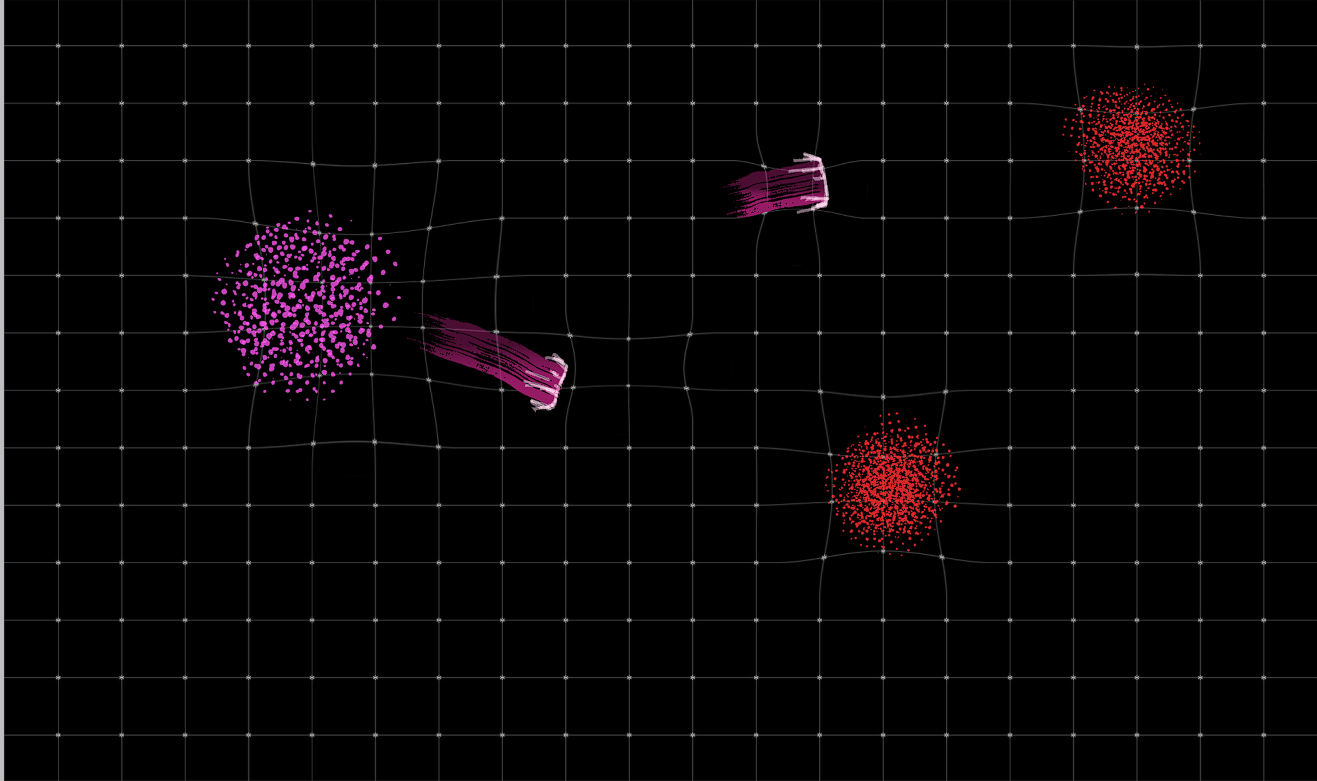
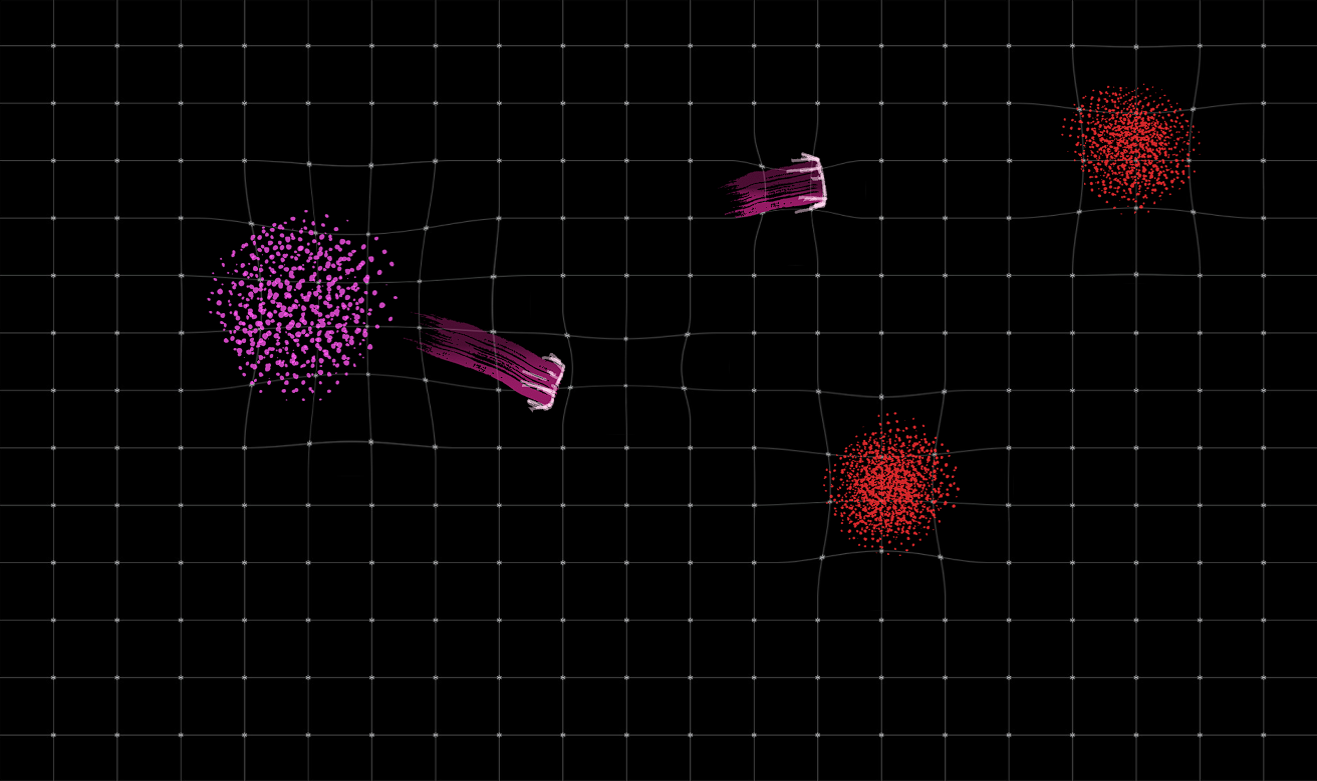
Start of Layout

diff --git a/style.css b/style.css
@@ -1,0 +1,73 @@
+html,
+body {
+    width: 100%;
+    height: 100%;
+    margin: 0;
+}
+
+body {
+    overflow: hidden;
+    font-family: "Segoe UI", Tahoma, Geneva, Verdana, sans-serif;
+    color: #f4f7ff;
+}
+
+.page {
+    position: relative;
+    z-index: 1;
+    width: 100vw;
+    min-height: 100svh;
+    display: grid;
+    place-content: center;
+    justify-items: center;
+    padding: 1rem;
+}
+
+h1 {
+    font-size: clamp(1.8rem, 4.5vw, 3.2rem);
+    margin: 0 0 1.25rem;
+    text-align: center;
+    text-shadow: 0 2px 20px rgba(0, 0, 0, 0.75);
+}
+
+.background {
+    position: fixed;
+    inset: 0;
+    z-index: 0;
+}
+
+#deco_image {
+    width: 100%;
+    height: 100%;
+    object-fit: cover;
+}
+
+.menu_buttons {
+    display: flex;
+    flex-wrap: wrap;
+    gap: 0.75rem;
+    width: min(34rem, 100%);
+}
+
+.menu_buttons button {
+    flex: 1 1 11rem;
+    min-height: 2.75rem;
+    font-size: 1rem;
+    border: 1px solid #4b7be5;
+    border-radius: 0.5rem;
+    background: rgba(20, 46, 96, 0.88);
+    color: #ffffff;
+    font-weight: 600;
+    cursor: pointer;
+}
+
+@media (max-width: 768px) {
+    h1 {
+        font-size: 1.6rem;
+    }
+
+    .menu_buttons button {
+        flex-basis: 100%;
+        font-size: 0.95rem;
+        min-height: 2.5rem;
+    }
+}

diff --git a/main_menu.html b/main_menu.html
@@ -1,0 +1,25 @@
+<!DOCTYPE html>
+<html>
+
+<head>
+    <meta charset="UTF-8">
+    <meta name="viewport" content="width=device-width, initial-scale=1.0">
+    <title></title>
+    <link rel="stylesheet" href="style.css">
+</head>
+
+<body>
+    <div class="background"><img id="deco_image" src="images/deco_background.png" alt="Decorative Background"></div>
+    <main class="page">
+        <h1>Project Decoherence</h1>
+        <nav class="menu_buttons" aria-label="Main menu">
+            <button class="new_game_button">New Game</button>
+            <button class="load_game_button">Load Game</button>
+            <button class="settings_button">Settings</button>
+            <button class="quit_button">Quit</button>
+        </nav>
+        
+    </main>
+</body>
+
+</html>